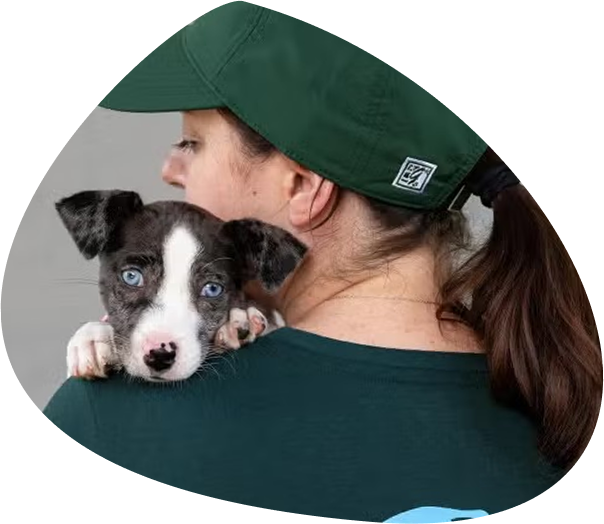
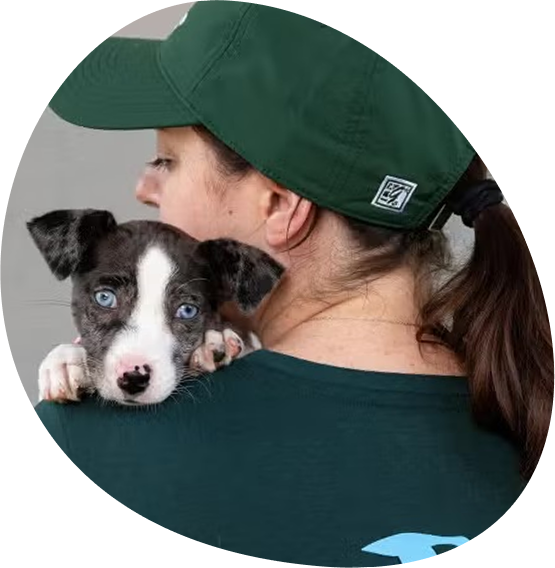
image change in home page

Changed region(s): [[0.0, 0.0, 1.0, 1.0], [0.3369, 0.9466, 0.4595, 0.9771]]

diff --git a/src/components/Hero2.js b/src/components/Hero2.js
@@ -1,17 +1,15 @@
 import Image from 'next/image';
 import imageCut2 from '../../public/imageCut2.svg';
-import { useRouter } from 'next/router';
 import { motion } from 'framer-motion';
 
 export default function hero({ imageSrc, title, description, subHeader }) {
-     const router = useRouter();
      return (
           <section className="relative w-full">
                <div className="relative w-full h-[400px] sm:h-[500px] md:h-[600px] lg:h-[800px] overflow-hidden">
                     <Image
                          src={imageSrc}
                          alt="Hero Image"
-                         className="absolute inset-0 w-full h-full object-cover"
+                         className="absolute inset-0 w-full h-full object-cover filter contrast-125 brightness-70"
                     />
                     <div className="absolute inset-0 bg-opacity-50 top-[10%] md:top-[15%] px-6 sm:px-10 md:px-16 lg:px-24 text-white">
                          <motion.h2
